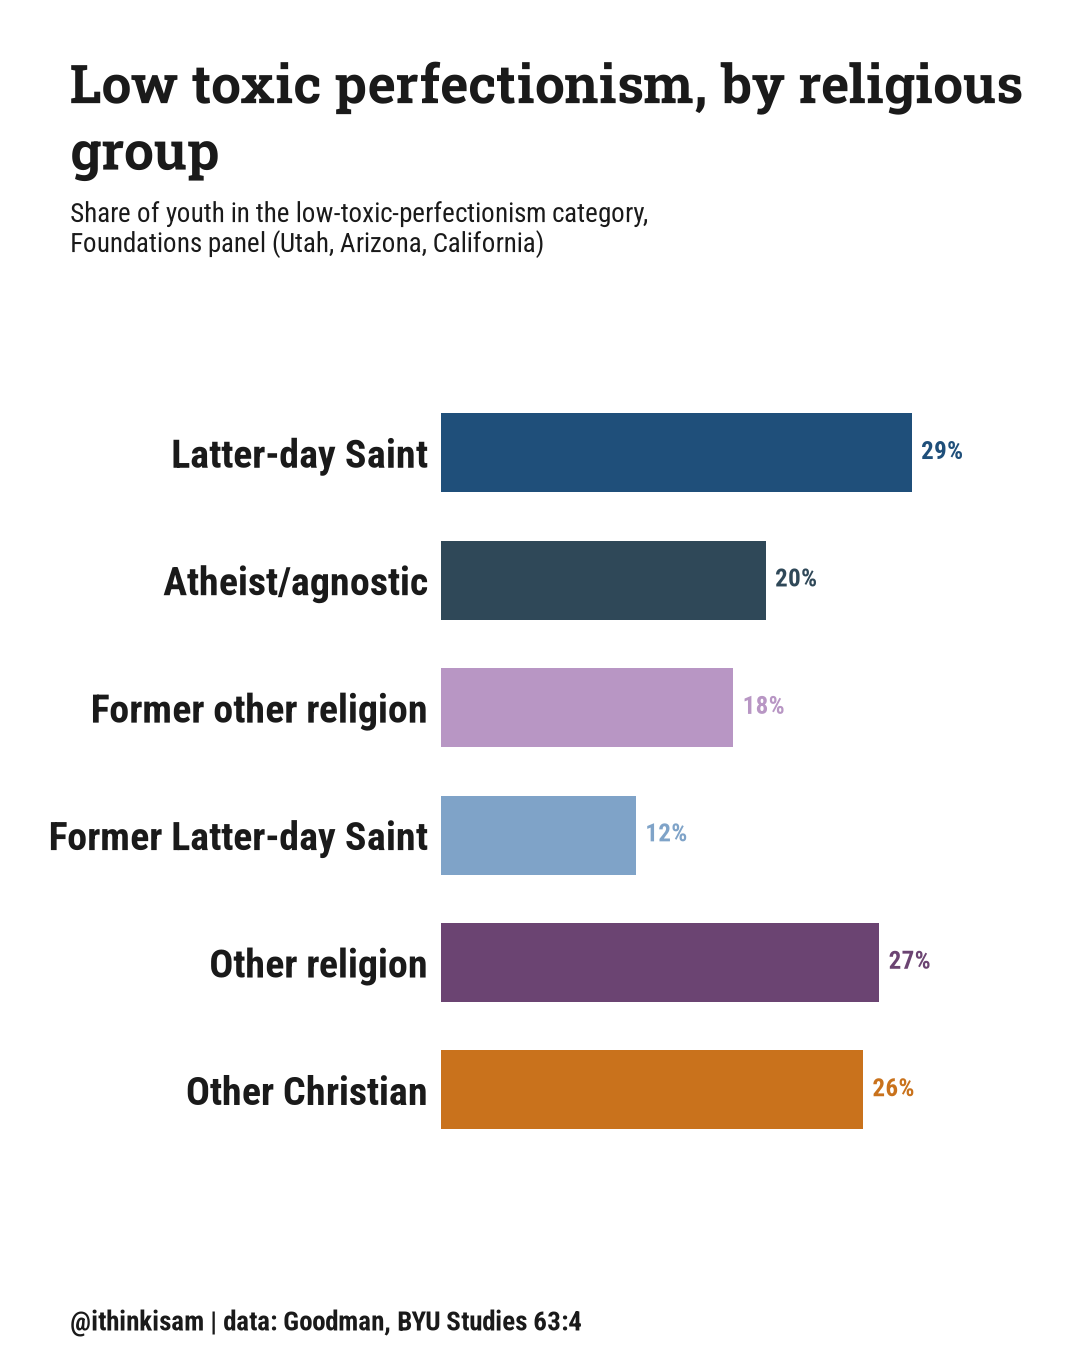
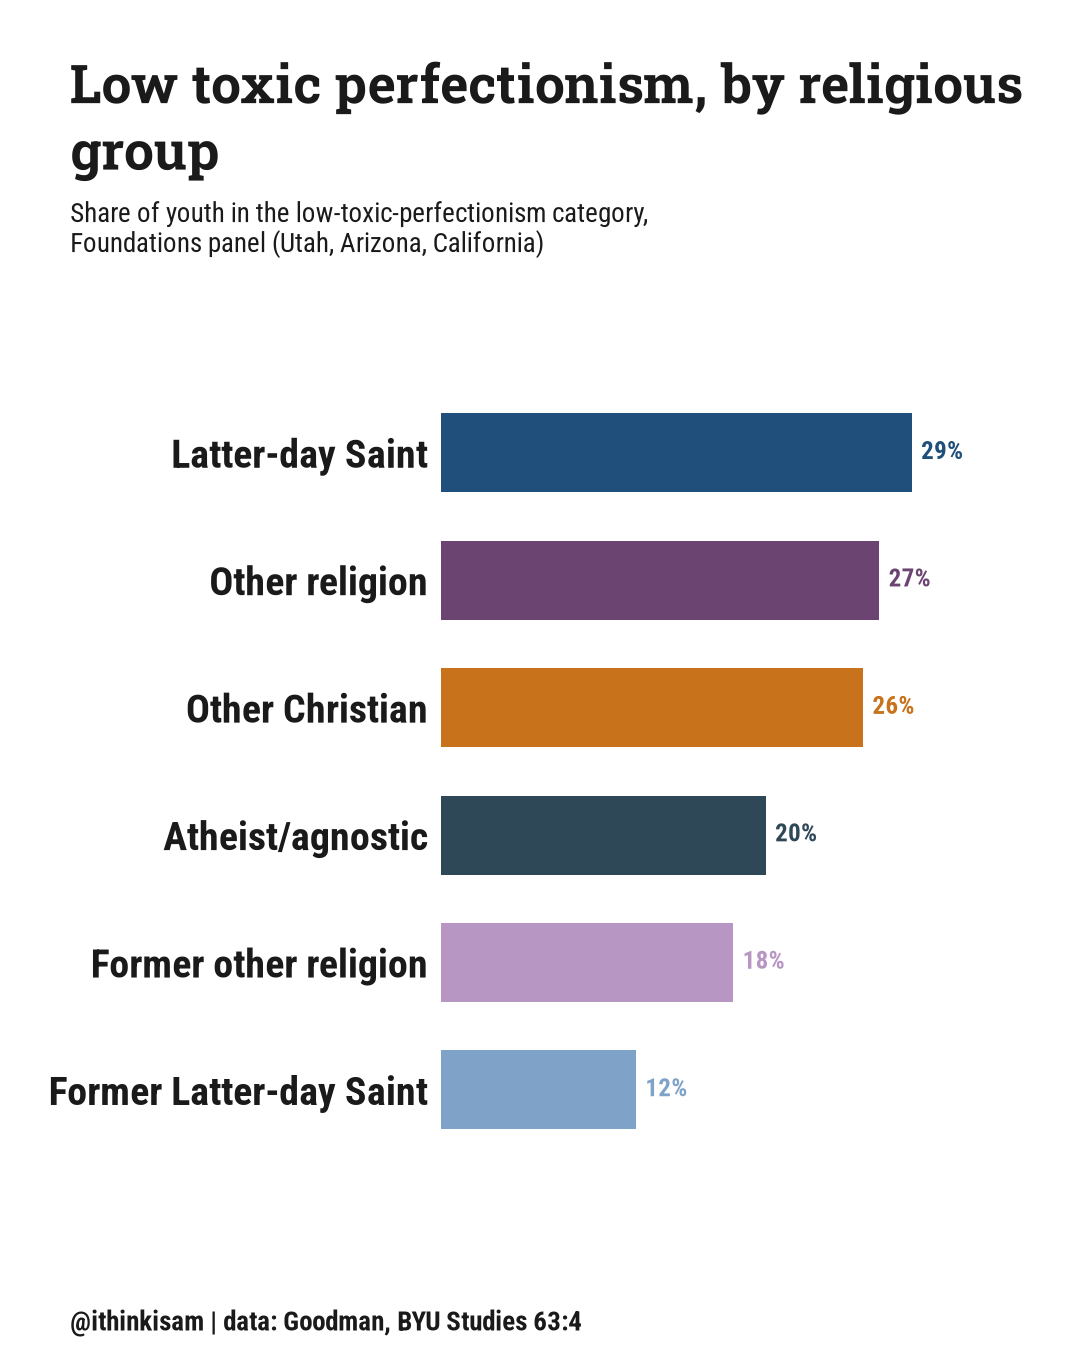
Reorder low-perfectionism-by-group chart by value, descending
Latter-day Saint (29%) at top down to Former Latter-day Saint (12%) at
bottom - matches the distribution chart's own requested reading, not
sort_groups's usual "Other X"-pinned-to-bottom tiering.

diff --git a/scripts/study-graphics/byu-studies-63-4-religion-and-perfectionism/render_charts.py b/scripts/study-graphics/byu-studies-63-4-religion-and-perfectionism/render_charts.py
@@ -82,7 +82,11 @@ def main() -> None:
 
     low_groups = {r["label"]: r["pct"] for r in DATA["charts"]["low-perfectionism-by-group"]["rows"]}
     render_magnitude_bar(
-        rows=sort_groups(list(low_groups), lambda label: low_groups[label]),
+        # Strict descending by value, not sort_groups's usual "Other X"-
+        # pinned-to-bottom tiering - matches the distribution chart's own
+        # requested reading, one continuous ranking from Latter-day
+        # Saint's 29% down to Former Latter-day Saint's 12%.
+        rows=sorted(low_groups, key=lambda label: -low_groups[label]),
         values=low_groups,
         highlight_rows=None,
         row_colors=ROW_COLORS,
